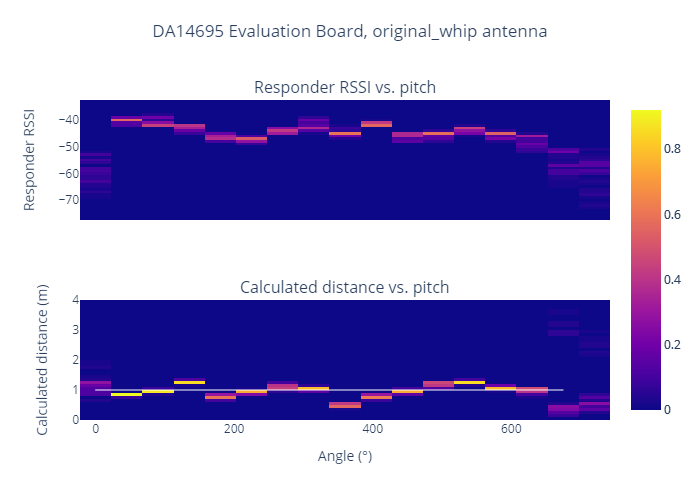
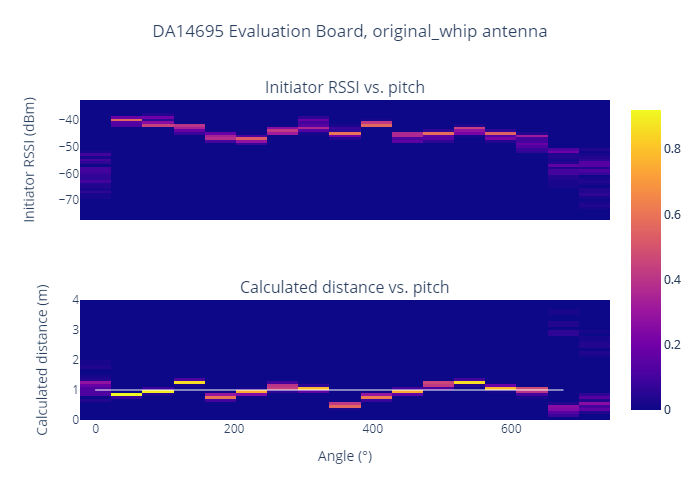
labelling fixes

Changed region(s): [[0.36, 0.15, 0.63, 0.21], [0.03, 0.18, 0.06, 0.45]]

diff --git a/data/JimmyGammell/2020-06-10/code/plot_data.py b/data/JimmyGammell/2020-06-10/code/plot_data.py
@@ -24,7 +24,7 @@ ref_line = dict(color='white', width=1)
 # Plot yaw data
 for antenna in antennas:
     fig = make_subplots(rows=2, cols=1,
-                        subplot_titles=['Responder RSSI vs. yaw',
+                        subplot_titles=['Initiator RSSI vs. yaw',
                                         'Calculated distance vs. yaw'],
                         shared_xaxes=True)
     rssi_hist2d = []
@@ -77,14 +77,14 @@ for antenna in antennas:
                              'xanchor': 'center', 'yanchor': 'top', 'y': .95, 'x': .5})
     fig.update_xaxes(title='Angle (°)', row=2, col=1)
     fig.update_layout(showlegend=False)
-    fig.update_yaxes(title_text='Responder RSSI', row=1, col=1)
+    fig.update_yaxes(title_text='Initiator RSSI (dBm)', row=1, col=1)
     fig.update_yaxes(title_text='Calculated distance (m)', row=2, col=1)
     fig.write_image(os.path.join(output_directory, 'orientation_exp1_%s.png'%(antenna)))
 
 # Plot pitch data
 for antenna in antennas:
     fig = make_subplots(rows=2, cols=1,
-                        subplot_titles=['Responder RSSI vs. pitch',
+                        subplot_titles=['Initiator RSSI vs. pitch',
                                         'Calculated distance vs. pitch'],
                         shared_xaxes=True)
     rssi_hist2d = []
@@ -137,14 +137,14 @@ for antenna in antennas:
                              'xanchor': 'center', 'yanchor': 'top', 'y': .95, 'x': .5})
     fig.update_xaxes(title='Angle (°)', row=2, col=1)
     fig.update_layout(showlegend=False)
-    fig.update_yaxes(title_text='Responder RSSI', row=1, col=1)
+    fig.update_yaxes(title_text='Initiator RSSI (dBm)', row=1, col=1)
     fig.update_yaxes(title_text='Calculated distance (m)', row=2, col=1)
     fig.write_image(os.path.join(output_directory, 'orientation_exp2_%s.png'%(antenna)))
 
 # Plot roll data
 for antenna in antennas:
     fig = make_subplots(rows=2, cols=1,
-                        subplot_titles=['Responder RSSI vs. roll',
+                        subplot_titles=['Initiator RSSI vs. roll',
                                         'Calculated distance vs. roll'],
                         shared_xaxes=True)
     rssi_hist2d = []
@@ -197,14 +197,14 @@ for antenna in antennas:
                              'xanchor': 'center', 'yanchor': 'top', 'y': .95, 'x': .5})
     fig.update_xaxes(title='Angle (°)', row=2, col=1)
     fig.update_layout(showlegend=False)
-    fig.update_yaxes(title_text='Responder RSSI', row=1, col=1)
+    fig.update_yaxes(title_text='Initiator RSSI (dBm)', row=1, col=1)
     fig.update_yaxes(title_text='Calculated distance (m)', row=2, col=1)
     fig.write_image(os.path.join(output_directory, 'orientation_exp3_%s.png'%(antenna)))
 
 # Plot position data
 for antenna in antennas:
     fig = make_subplots(rows=2, cols=1,
-                        subplot_titles=['Responder RSSI vs. position',
+                        subplot_titles=['Initiator RSSI vs. position',
                                         'Calculated distance vs. position'],
                         shared_xaxes=True)
     rssi_hist2d = []
@@ -257,7 +257,7 @@ for antenna in antennas:
                              'xanchor': 'center', 'yanchor': 'top', 'y': .95, 'x': .5})
     fig.update_xaxes(title='Angle (°)', row=2, col=1)
     fig.update_layout(showlegend=False)
-    fig.update_yaxes(title_text='Responder RSSI', row=1, col=1)
+    fig.update_yaxes(title_text='Initiator RSSI (dBm)', row=1, col=1)
     fig.update_yaxes(title_text='Calculated distance (m)', row=2, col=1)
     fig.write_image(os.path.join(output_directory, 'orientation_exp4_%s.png'%(antenna)))
 
@@ -360,6 +360,6 @@ for antenna in antennas:
     fig.update_xaxes(title='Separation (m)', row=2, col=1)
     fig.update_xaxes(title='Separation (m)', row=2, col=2)
     fig.update_layout(showlegend=False)
-    fig.update_yaxes(title_text='Responder RSSI', row=1, col=1)
+    fig.update_yaxes(title_text='Initiator RSSI (dBm)', row=1, col=1)
     fig.update_yaxes(title_text='Calculated distance (m)', row=2, col=1)
     fig.write_image(os.path.join(output_directory, 'distance_%s.png'%(antenna)))
